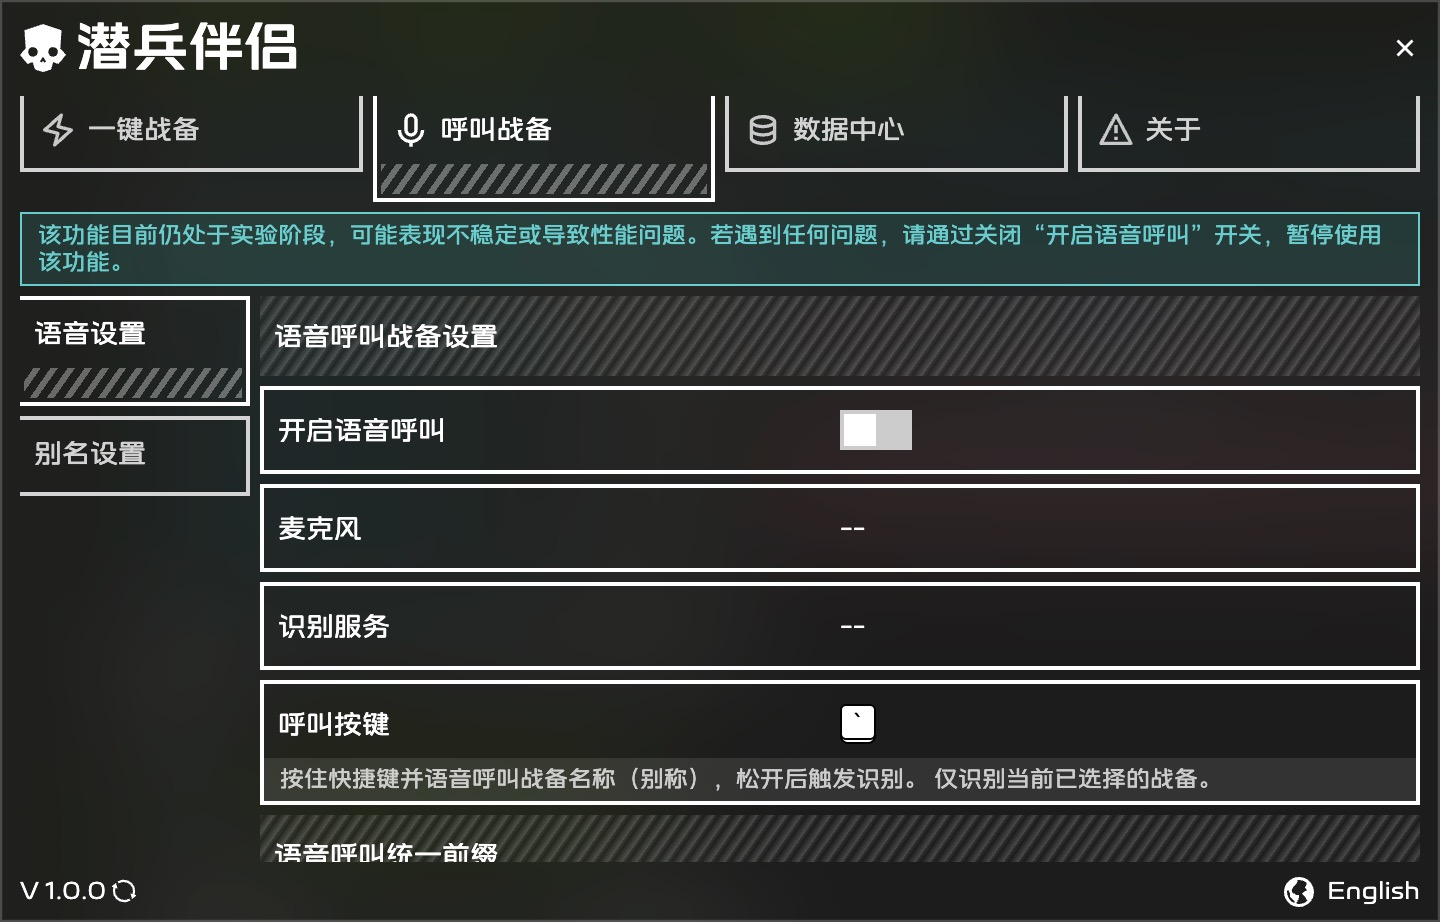
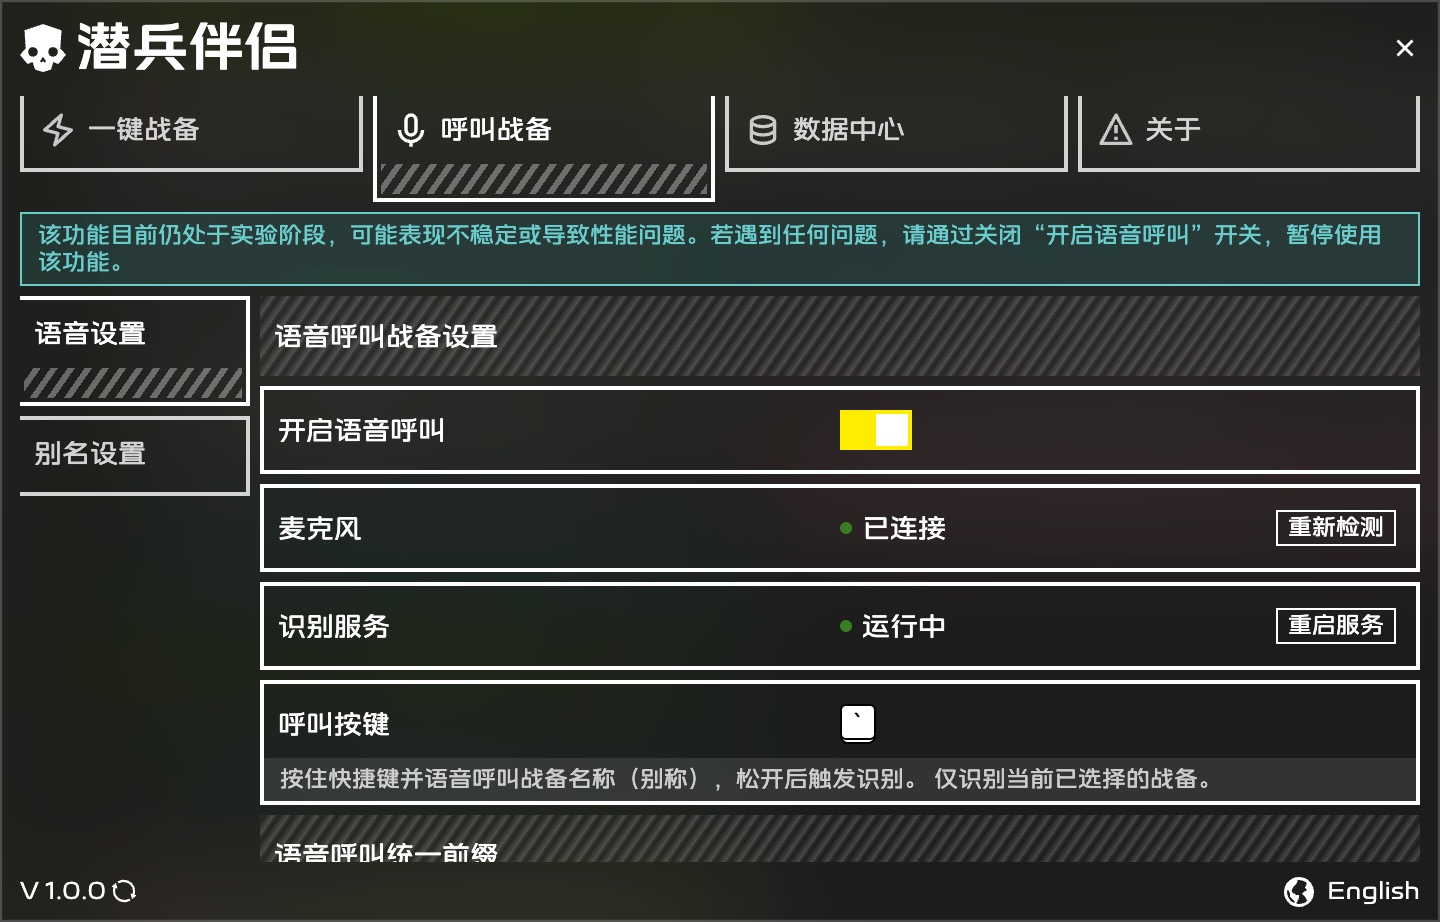
update: add intro pics to zh version

diff --git a/README.md b/README.md
@@ -6,6 +6,7 @@
 ## 🎯 Currently Deployed Tactical Modules
 
 ### Module I · One-Key Stratagem Rapid Response (Base Module)
+
 <img src="/intro-pics/Overview.jpg" width="600">
 - **F1 ~ F4**: Dynamically mapped to in-game stratagem slots 1–4
 - **F5**: Reinforcements (customizable)
@@ -14,6 +15,7 @@
 - All 108 currently deployed stratagems are pre-configured; stratagem codes will be updated in sync with future deployments
 
 ### Module II · Visual-Sync Stratagem System (Core Module)
+
 <img src="/intro-pics/In-Game Selection.jpg" width="600">
 Conventional tactical assistance terminals suffer from a critical flaw: **the Helldiver adjusts their stratagem loadout before a Hell Dive, but the terminal has no idea.** The result? You hit a key and it spits out the stratagem code from the _last_ mission. This is a textbook case of "human-machine information desynchronization" – a direct violation of the Ministry of Science Combat Efficiency Regulations.
 
@@ -28,6 +30,7 @@ The Visual-Sync module of this terminal solves this problem:
 ### Module III · Voice-Call Module (Beta · Frontline Data Collection Program)
 
 > _"While your hand pulls the trigger of Democracy, don't forget that your mouth also belongs to Super Earth. – Ministry of Science Audio Engineering Group"_
+
 <img src="/intro-pics/Voice Call.jpg" width="600">
 This terminal also features an experimental voice recognition module. Hold down the call key and shout the name of a stratagem – the terminal will automatically trigger the call.
 
@@ -36,7 +39,9 @@ This terminal also features an experimental voice recognition module. Hold down 
 - **Beta Invitation**: Every call helps refine Democracy's delivery efficiency. The Ministry of Science looks forward to your frontline feedback.
 
 ### Module IV · Democratic Database (Alpha · Data Access Pending Approval)
+
 <img src="/intro-pics/Database.jpg" width="600">
+
 > _"Know yourself, know your enemy, and you can deliver Democracy with precision. – This statement has itself been approved by the Ministry of Truth. Additional strategic data access is pending approval."_
 
 This terminal is currently applying for access to the Super Earth Strategic Intelligence Database. Upon approval, DiverMate will provide the following battlefield information support:

diff --git a/README.zh.md b/README.zh.md
@@ -6,6 +6,7 @@
 
 ### 模块一 · 一键战备快速响应（基础模块）
 
+<img src="/intro-pics/zh/Overview.jpg" width="600">
 - **F1 ~ F4**：动态对应游戏内战备槽位 1~4
 - **F5**：呼叫增援（可自定义）
 - **F6**：呼叫补给（可自定义）
@@ -14,6 +15,7 @@
 
 ### 模块二 · 视觉同步战备系统（核心模块）
 
+<img src="/intro-pics/zh/In-Game Selection.jpg" width="600">
 传统战术辅助终端有一个通病：**潜兵在超级地狱俯冲之前调整了战备配置，终端却毫不知情。** 结果就是按下快捷键，打出来的还是上一场战斗的战备代码——这是典型的“人机信息不同步”，严重违反科技部作战效率条例。
 
 本终端的视觉同步模块解决了这一问题：
@@ -28,6 +30,7 @@
 
 > _“用手扣动民主扳机的同时，别忘了你的嘴也属于超级地球——科技部语音工程组。”_
 
+<img src="/intro-pics/zh/Voice Call.jpg" width="600">
 本终端还搭载了实验性语音识别模块。按住呼叫键大声呼出战备名称，终端将自动触发呼叫指令。
 
 - **识别范围限定**终端仅识别每一次下潜所携带4个战备，避免词库过大触发错误的投送。
@@ -35,6 +38,8 @@
 - **Beta 版本邀请试用**：每一次呼叫都在完善民主的投送效率，科技部期待来自一线的反馈。
 
 ### 模块四 · 民主数据库（Alpha · 数据权限申请中）
+
+<img src="/intro-pics/Database.jpg" width="600">
 
 > _“知己知彼，方能精准投送民主。—— 这句话本身已经真理部审核通过。更多战略数据权限审批中。”_
 
